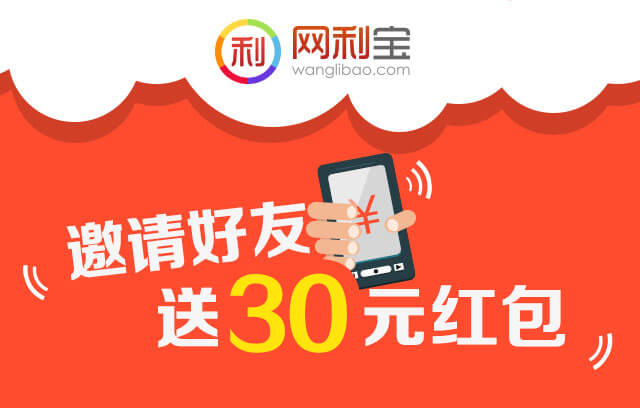
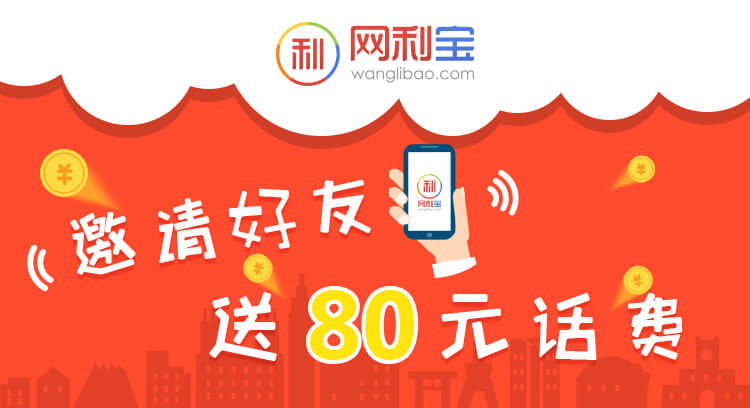
修改11月新手_邀请相关页面文案

diff --git a/static/css/wap/share_app.css b/static/css/wap/share_app.css
@@ -190,7 +190,7 @@ h1 {
 }
 header {
   background: #ffffff url("/static/images/wap/share_header_bg.jpg") no-repeat left top;
-  background-size: 100% 100%;
+  background-size: contain;
 }
 .activity-app-header {
   background: url("/static/images/wap/activity_header.jpg") no-repeat left top;
@@ -211,7 +211,7 @@ header {
 }
 @media screen and (max-width: 320px) {
   header {
-    height: 13em;
+    height: 11em;
   }
   .crazy-feast-header {
     height: 10.7em;
@@ -228,7 +228,7 @@ header {
 }
 @media screen and (min-width: 360px) {
   header {
-    height: 15.3em;
+    height: 13.3em;
   }
   .crazy-feast-header {
     height: 12.4em;
@@ -245,7 +245,7 @@ header {
 }
 @media screen and (min-width: 414px) {
   header {
-    height: 17.3em;
+    height: 15.3em;
   }
   .crazy-feast-header {
     height: 13.9em;
